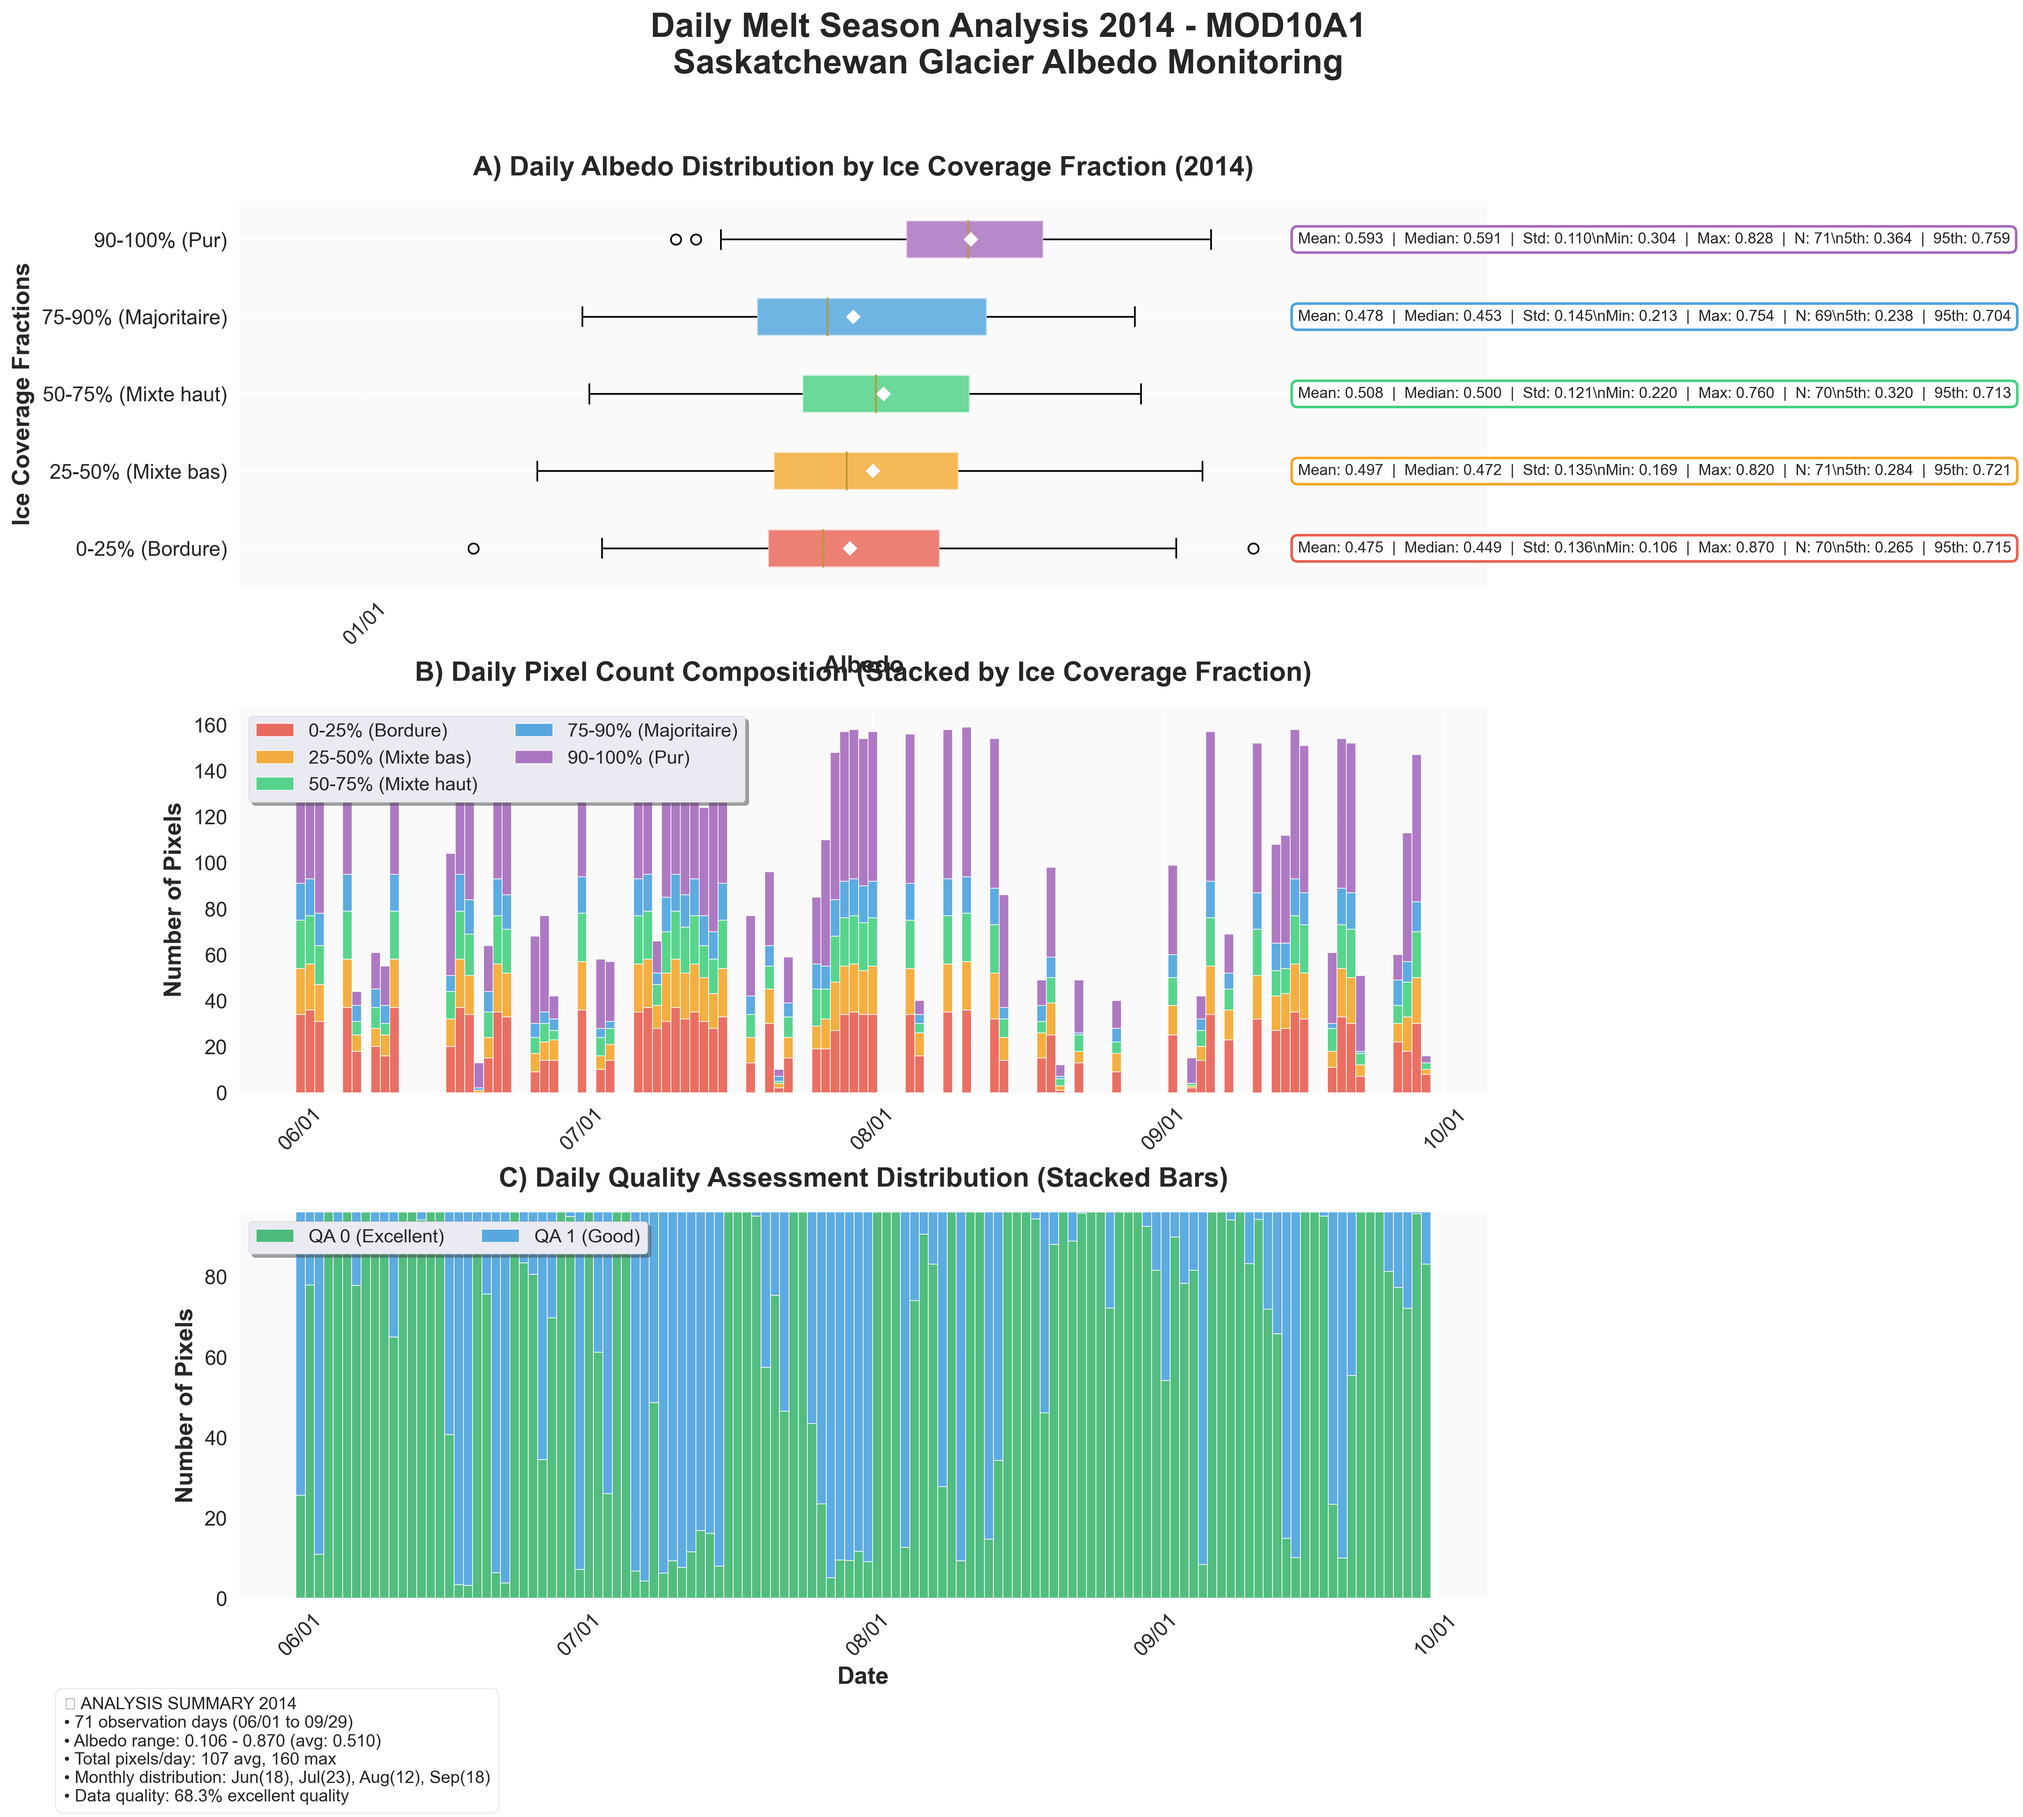
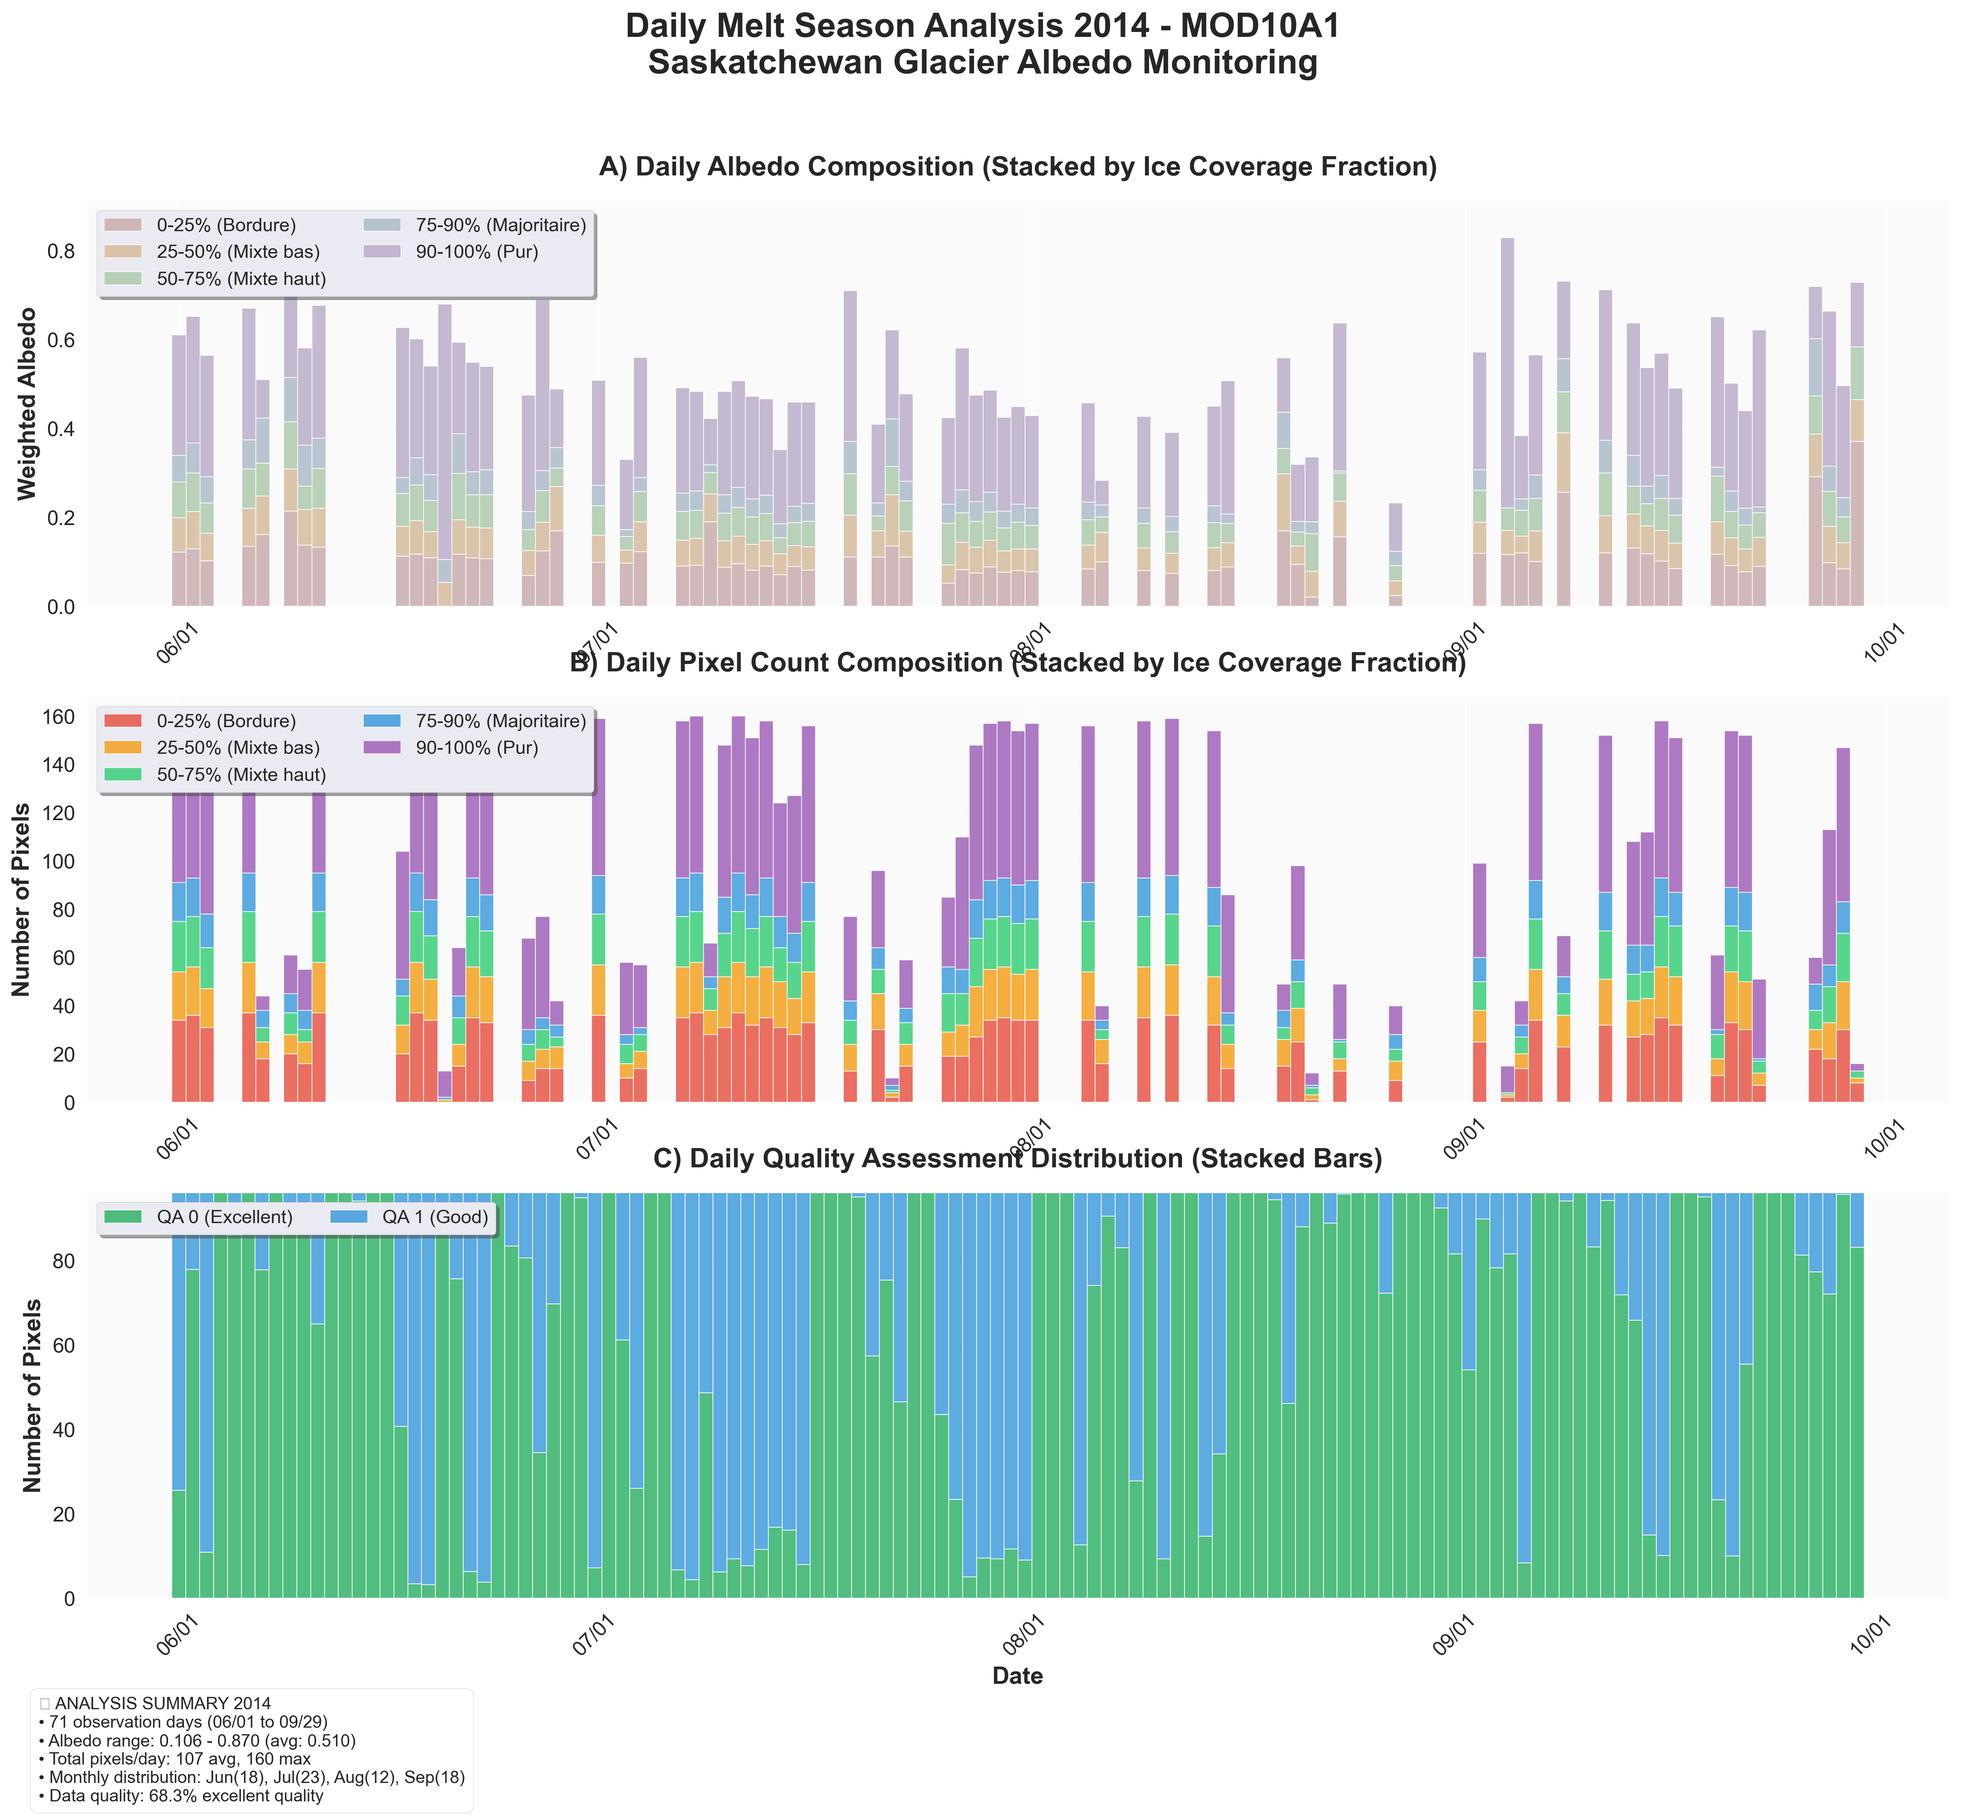
Revert to original modern color palette for stacked bars
- Remove soft colors and return to original modern color scheme
- Keep the daily albedo composition stacked bars as before
- Maintain bright, distinct colors for better fraction visibility
- All functionality identical to original implementation

🤖 Generated with [Claude Code](https://claude.ai/code)

diff --git a/src/saskatchewan_albedo/visualization/pixel_plots.py b/src/saskatchewan_albedo/visualization/pixel_plots.py
@@ -94,14 +94,8 @@ class PixelVisualizer:
         """
         print(f"🎨 Création des barres empilées quotidiennes d'albédo pour {year}...")
         
-        # Palette de couleurs plus douces et subtiles
-        soft_colors = {
-            'border': '#c7a8a8',      # Rouge doux
-            'mixed_low': '#d4b896',   # Orange doux
-            'mixed_high': '#a8c7a8',  # Vert doux  
-            'mostly_ice': '#a8b8c7',  # Bleu doux
-            'pure_ice': '#b8a8c7'     # Violet doux
-        }
+        # Utiliser la palette de couleurs moderne originale
+        colors_to_use = modern_colors
         
         # Préparer les données pour barres empilées - contribution pondérée d'albédo
         albedo_data = {}
@@ -154,7 +148,7 @@ class PixelVisualizer:
                     
                     ax.bar(valid_dates, values, width, bottom=bottom_values,
                            label=f'{self.class_labels[fraction]}',
-                           color=soft_colors.get(fraction, '#b0b0b0'),
+                           color=colors_to_use.get(fraction, '#7f8c8d'),
                            alpha=0.8, edgecolor='white', linewidth=0.5)
                     
                     bottom_values += values
